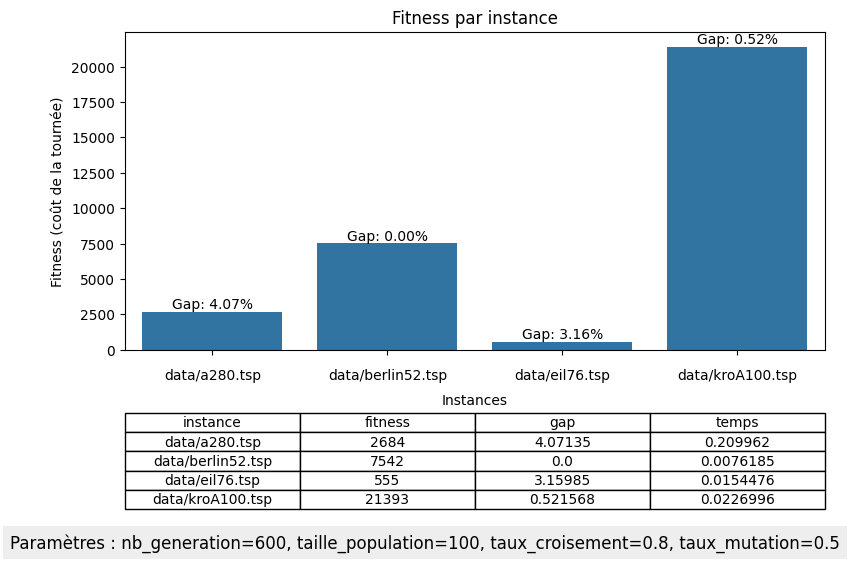
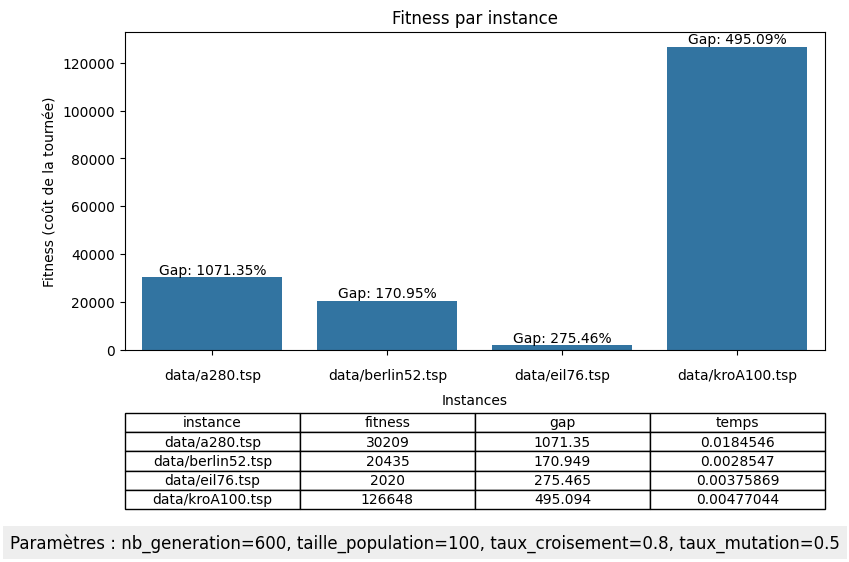
test avec et sans 2opt

diff --git a/src/algo_genetique/ae.cpp b/src/algo_genetique/ae.cpp
@@ -66,11 +66,11 @@ chromosome* Ae::optimiser()
 
 		if (Random::aleatoire(1000) / 1000.0 < taux_mutation) {
 			fils1->echange_2_genes_consecutifs();
-			fils1->ameliorer_2opt(les_distances); // Amélioration avec 2-opt
+			//fils1->ameliorer_2opt(les_distances); // Amélioration avec 2-opt
 		}
 		if (Random::aleatoire(1000) / 1000.0 < taux_mutation) {
 			fils2->echange_2_genes_consecutifs();
-			fils2->ameliorer_2opt(les_distances); // Amélioration avec 2-opt
+			//fils2->ameliorer_2opt(les_distances); // Amélioration avec 2-opt
 		}
 
 		// �valuation des deux nouveaux individus g�n�r�s
